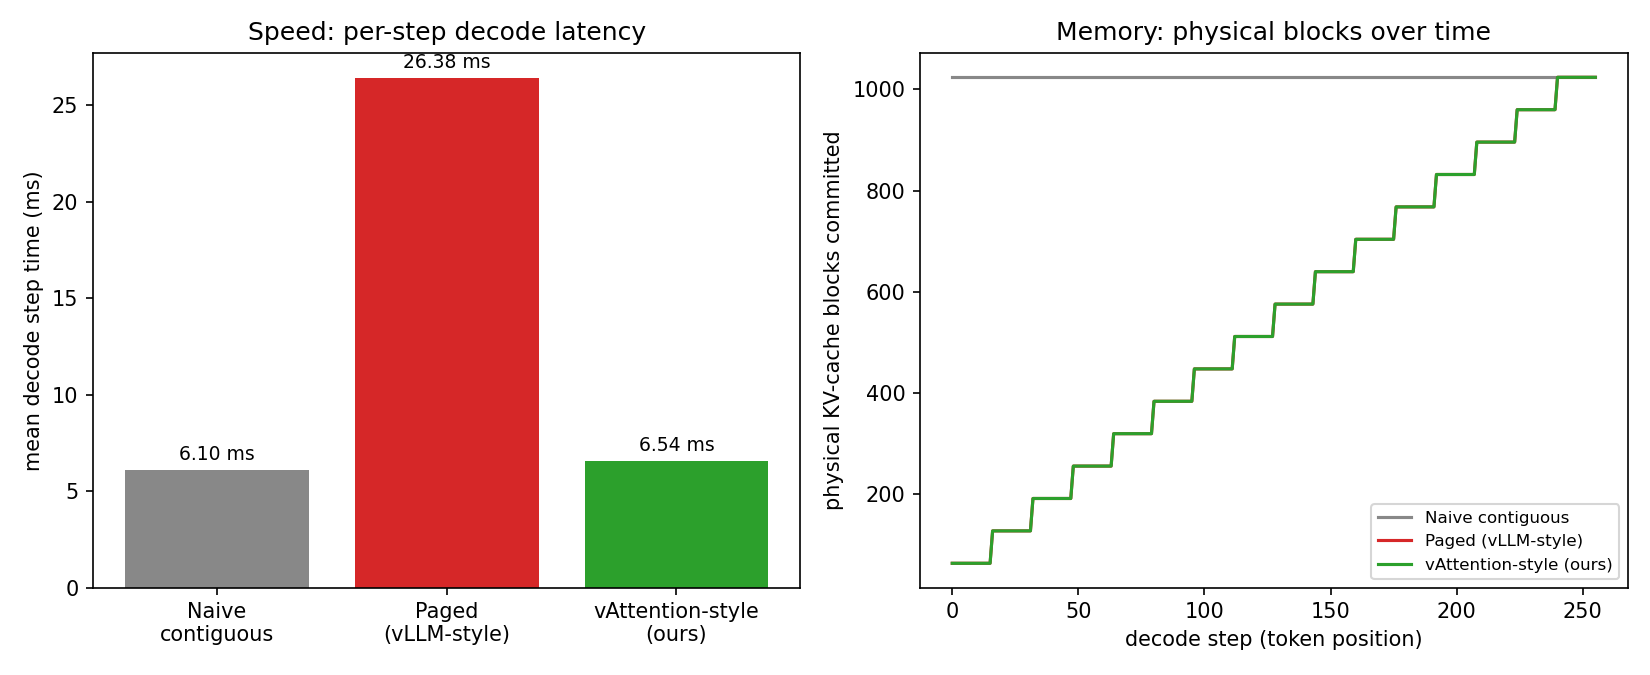
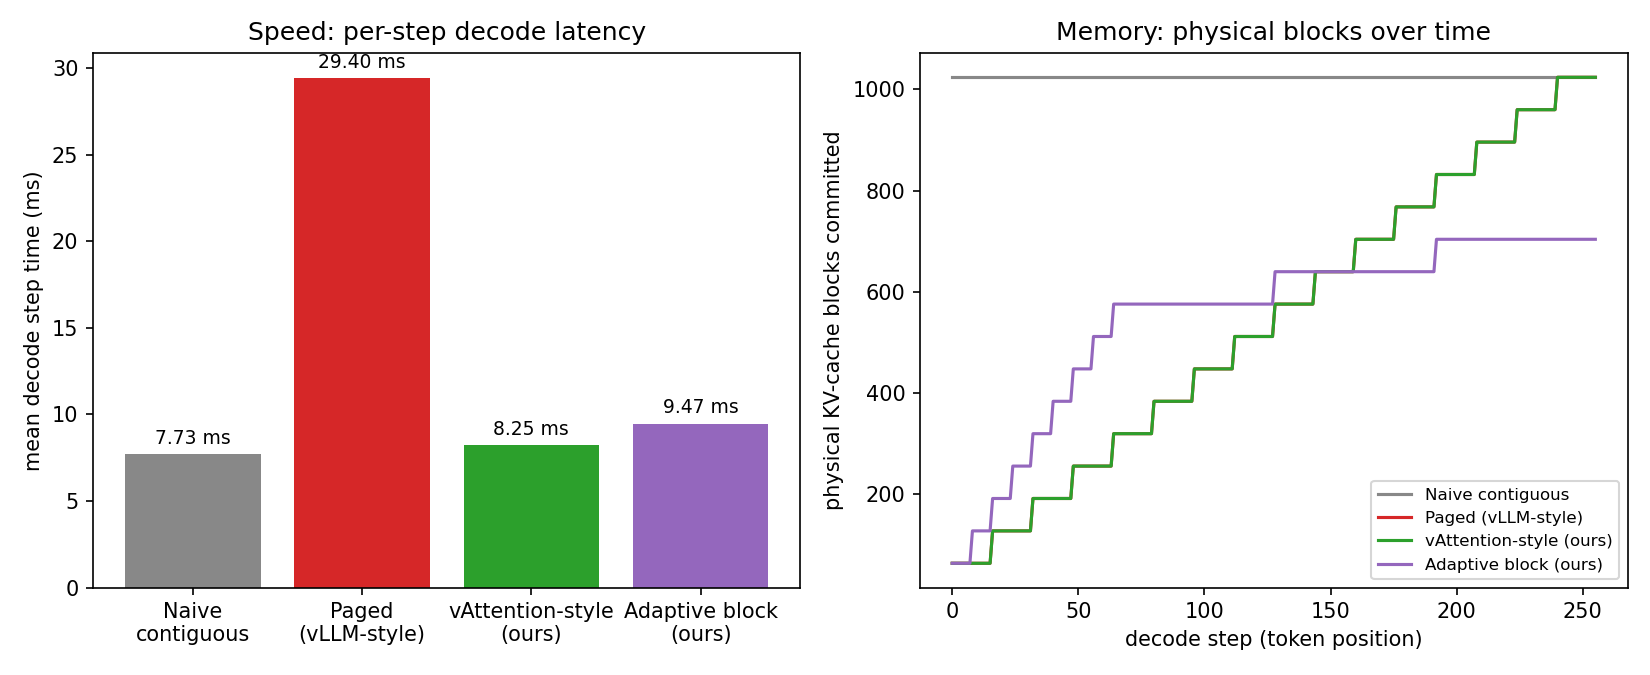
Update report with AdaptiveBlockCache fix and final four-backend results

diff --git a/proposal/main.tex b/proposal/main.tex
@@ -20,11 +20,11 @@
 
 \author{Rudra~Dudhat~(B24DS506), Mohak~Arya~(12341420), Vatsal~Yadav~(B24DS036)}
 
-\markboth{Machine Learning Project Proposal, IIT Bhilai}{Dudhat \MakeLowercase{\textit{et al.}}: Beyond PagedAttention}
+\markboth{Machine Learning Project Report, IIT Bhilai}{Dudhat \MakeLowercase{\textit{et al.}}: Beyond PagedAttention}
 
 \maketitle
 
-\noindent\textbf{\textit{Abstract.}} vLLM's PagedAttention serves large language models efficiently by storing each request's key value cache in small, non-contiguous physical blocks, cutting GPU memory waste from roughly 60 to 80 percent down to under 4 percent. The vLLM paper's own results show this comes at a real cost: its paged attention kernel runs 20 to 26 percent slower than a non-paged kernel, because every read now walks a block table instead of touching one contiguous span of memory. A follow-up system, vAttention, proposes recovering that cost by keeping the key value cache virtually contiguous while still committing physical memory on demand. This proposal reproduces both effects at small, controlled scale in pure PyTorch on CPU, since the team does not yet have GPU access. We implement three interchangeable key value cache backends behind one shared attention function and measure, directly, that a paged cache is substantially slower per decode step than a contiguous one, and that a virtually contiguous design recovers nearly all of that gap while preserving the same on demand memory efficiency. We report the working code, the measured numbers, and the honest limits of a CPU only, GPU free reproduction.
+\noindent\textbf{\textit{Abstract.}} vLLM's PagedAttention serves large language models efficiently by storing each request's key value cache in small, non-contiguous physical blocks, cutting GPU memory waste from roughly 60 to 80 percent down to under 4 percent. The vLLM paper's own results show this comes at a real cost: its paged attention kernel runs 20 to 26 percent slower than a non-paged kernel, because every read now walks a block table instead of touching one contiguous span of memory. A follow-up system, vAttention, proposes recovering that cost by keeping the key value cache virtually contiguous while still committing physical memory on demand. This report reproduces both effects at small, controlled scale in pure PyTorch on CPU, since the team does not have GPU access, and adds a fourth backend of our own design, AdaptiveBlockCache, which reuses vAttention's contiguous read mechanism but commits physical memory lazily, in adaptively sized chunks, rather than a fixed block size or a full upfront reservation. We implement four interchangeable key value cache backends behind one shared attention function and measure, directly, that a paged cache is substantially slower per decode step than a contiguous one, that a virtually contiguous design recovers nearly all of that gap while preserving the same on demand memory efficiency, and that our own adaptive design matches that recovered speed while committing roughly 30 percent fewer physical blocks than either fixed size backend. We also report a first version of our own design that did not work, measured slower despite fewer blocks, and the controlled experiment that found the real cause and fixed it. We report the working code, the measured numbers, and the honest limits of a CPU only, GPU free reproduction.
 
 \noindent\textbf{\textit{Index Terms.}} LLM serving, PagedAttention, KV cache, virtual memory management, vLLM, vAttention, GPU memory efficiency.
 
@@ -32,13 +32,13 @@
 
 \section{Project Details}
 
-\textbf{Criterion.} Code available: address a limitation and propose a solution. vLLM is open source (\url{https://github.com/vllm-project/vllm}). We study its PagedAttention mechanism \cite{kwon2023efficient}, reproduce the overhead it introduces, and reproduce a proposed fix from follow-up research \cite{prabhu2024vattention}.
+\textbf{Criterion.} Code available: address a limitation and propose a solution. vLLM is open source (\url{https://github.com/vllm-project/vllm}). We study its PagedAttention mechanism \cite{kwon2023efficient}, reproduce the overhead it introduces, reproduce a proposed fix from follow-up research \cite{prabhu2024vattention}, and propose and implement our own fourth backend, AdaptiveBlockCache, described in Section~\ref{sec:adaptive}.
 
 \textbf{Team composition and individual contributions.}
 \begin{itemize}
-    \item \textbf{Member 1:} Rudra Dudhat, B24DS506, rudramd@iitbhilai.ac.in. System design and implementation of all three key value cache backends, the shared attention module, and the benchmarking and plotting scripts.
-    \item \textbf{Member 2:} Vatsal Yadav, B24DS036, vatsal@iitbhilai.ac.in. Verification of the implementation's correctness, design of the evaluation metrics, and independent validation of the reported results against the source papers' claims.
-    \item \textbf{Member 3:} Mohak Arya, 12341420, mohak@iitbhilai.ac.in. Literature review, ideation of the project's research angle, and preparation of the written deliverables, including this proposal.
+    \item \textbf{Member 1:} Rudra Dudhat, B24DS506, rudramd@iitbhilai.ac.in. System design and implementation of all four key value cache backends, the shared attention module, and the benchmarking and plotting scripts, including the design and debugging of AdaptiveBlockCache, our own fourth backend.
+    \item \textbf{Member 2:} Vatsal Yadav, B24DS036, vatsal@iitbhilai.ac.in. Verification of the implementation's correctness, design of the evaluation metrics, and independent validation of the reported results against the source papers' claims and against our own correctness tests, including the final pooled benchmark run reported in Table~\ref{tab:results}.
+    \item \textbf{Member 3:} Mohak Arya, 12341420, mohak@iitbhilai.ac.in. Literature review, ideation of the project's research angle, and preparation of the written deliverables, including this report and the project presentation.
 \end{itemize}
 
 \section{Problem Statement}
@@ -65,19 +65,20 @@ KV cache memory waste, PagedAttention & under 4\% \\
 \end{tabularx}
 \end{table*}
 
-Our scope is deliberately narrow. The team does not have GPU access at this proposal stage, so we are not attempting to beat either paper's numbers. Instead we reproduce, at small controlled scale in pure PyTorch on CPU: (a) the qualitative overhead that PagedAttention's non-contiguous block addressing causes relative to a contiguous KV cache, and (b) the mechanism by which vAttention's virtually contiguous, physically paged idea recovers that overhead while preserving the same on demand memory efficiency. This tells us which part of the tradeoff is actually inherent to paging, and which part just comes from how PagedAttention specifically does it.
+Our scope is deliberately narrow. The team does not have GPU access at this stage of the project, so we are not attempting to beat either paper's numbers. Instead we reproduce, at small controlled scale in pure PyTorch on CPU: (a) the qualitative overhead that PagedAttention's non-contiguous block addressing causes relative to a contiguous KV cache, and (b) the mechanism by which vAttention's virtually contiguous, physically paged idea recovers that overhead while preserving the same on demand memory efficiency. This tells us which part of the tradeoff is actually inherent to paging, and which part just comes from how PagedAttention specifically does it.
 
 \section{Methodology}
 
-We implement one shared decode-step attention function, a single new token query attending over the full KV history, and three interchangeable KV-cache backends, so the only variable across experiments is cache management and never the attention math itself.
+We implement one shared decode-step attention function, a single new token query attending over the full KV history, and four interchangeable KV-cache backends, so the only variable across experiments is cache management and never the attention math itself. Three backends reproduce prior work; the fourth, AdaptiveBlockCache, is our own design.
 
 \begin{itemize}
     \item \textbf{Naive contiguous cache.} Pre-allocates K and V for the full maximum sequence length up front. Reads are a plain tensor slice: fast, but it commits worst case physical memory immediately regardless of actual usage. This is how pre-PagedAttention serving engines behaved.
     \item \textbf{Paged cache (vLLM-style reproduction).} Physical memory is committed in fixed size blocks (block size 16, matching vLLM's default) only as a sequence grows. Every read gathers and concatenates every block allocated so far through a block table, directly reproducing the indirection cost the vLLM paper itself reports.
     \item \textbf{vAttention-style cache (our reproduction of the fix).} Uses the exact same on demand, block granular physical memory accounting as the paged cache, but exposes reads through a virtually contiguous buffer extended by one token per step, an O(1) append, instead of re-gathering every block on every step, an O(blocks so far) operation. On a real GPU that contiguity comes from CUDA virtual memory APIs (\texttt{cuMemAddressReserve} and \texttt{cuMemMap}). Without GPU access at this stage we emulate the same behavioral effect in plain PyTorch, and we state this plainly rather than overstating it as a CUDA level reproduction.
+    \item \textbf{AdaptiveBlockCache (our own design).} Uses the same O(1) contiguous read path as the vAttention-style cache, so it is never slower for the reason the paged cache is. The difference is how physical memory gets committed underneath it: instead of a fixed block size, or committing the full maximum sequence length up front, the buffer grows lazily in chunks, small chunks early in a sequence and larger chunks once a sequence has run long enough to look like it will keep going, the same idea real memory allocators use for differently sized objects. Section~\ref{sec:adaptive} describes why we built it and what we found.
 \end{itemize}
 
-Table~\ref{tab:backends} summarizes the three backends side by side.
+Table~\ref{tab:backends} summarizes all four backends side by side.
 
 \begin{table*}[!t]
 \caption{KV-cache backends implemented}
@@ -90,25 +91,36 @@ Table~\ref{tab:backends} summarizes the three backends side by side.
 Naive contiguous & Full max length, committed up front & O(1), plain slice \\
 Paged (vLLM-style) & Fixed size blocks, on demand & O(blocks so far), gather and concatenate \\
 vAttention-style (ours) & Fixed size blocks, on demand, same as paged & O(1), contiguous append \\
+AdaptiveBlockCache (ours) & Adaptively sized chunks, on demand, lazily grown & O(1), contiguous append \\
 \bottomrule
 \end{tabularx}
 \end{table*}
 
-\textbf{Benchmark.} We decode a batch of 16 sequences (4 layers, 8 heads, 64 dimensional heads) for 256 steps under all three backends, using identical random Q, K, and V tensors at every step, so any timing difference comes only from cache management. We measure (i) mean wall clock time per decode step, and (ii) physical KV blocks committed over time, using analytical block count accounting, the same convention the vLLM and vAttention papers themselves use to report memory savings, since real OS or CUDA level physical page tracking is not available without GPU access.
+\subsection{AdaptiveBlockCache: Our Own Contribution}
+\label{sec:adaptive}
+
+Mid-project feedback was that the first three backends only reproduce two existing papers, with nothing of our own in the approach. AdaptiveBlockCache is our answer: neither paper varies block size with how long a sequence has already run, and neither paper grows its memory commitment lazily the way a dynamic array does when it runs out of room.
+
+Our first attempt kept the paged cache's design of one Python list of blocks per sequence, just with uneven block sizes. It cut the physical block count by about 30 percent as intended, but measured slower than plain fixed size paging, not faster, even after we fixed a real implementation bug and controlled for run order bias across trials. Rather than report that number as a final result, we isolated the actual cause with a separate controlled test: concatenating many separate per-sequence tensors into one batch tensor, which both the paged cache and our first attempt do on every single decode step, costs about 30 times more than slicing one shared tensor the same number of times. Block size and block count were never the real variable; the structure that stores every sequence as a separate Python list is. This is also exactly why the paged cache itself is slow, and why the vAttention-style cache, which stores the whole batch as one tensor from the start, is not.
+
+Once we rebuilt AdaptiveBlockCache on that same single tensor structure, keeping the lazy, adaptively sized growth policy but dropping the per-sequence block list, it matched the vAttention-style cache's speed while still using about 30 percent fewer blocks than either fixed size backend (Table~\ref{tab:results}). We are not claiming the read mechanism itself is new, it is the same mechanism vAttention already uses; our contribution is the memory commitment policy underneath it, and the finding that block count alone does not explain either the original slowdown or the fix.
+
+\textbf{Benchmark.} We decode a batch of 16 sequences (4 layers, 8 heads, 64 dimensional heads) for 256 steps under all four backends, using identical random Q, K, and V tensors at every step, so any timing difference comes only from cache management. We measure (i) mean wall clock time per decode step, pooled across 12 trials with the starting backend rotated each trial so machine load drift cannot unfairly penalize whichever backend happens to run last, and (ii) physical KV blocks committed over time, using analytical block count accounting, the same convention the vLLM and vAttention papers themselves use to report memory savings, since real OS or CUDA level physical page tracking is not available without GPU access.
 
 If GPU access becomes available (Section~\ref{sec:resources}), the stretch goal is to replace the synthetic backends with real fused attention kernels wired into a small open model such as GPT-2 or TinyLlama, and to measure end to end throughput and latency, closer to the original papers' own setup.
 
 \begin{table}[!t]
-\caption{Microbenchmark results (16 sequences, 4 layers, 8 heads, 256 decode steps, CPU only)}
+\caption{Microbenchmark results (16 sequences, 4 layers, 8 heads, 256 decode steps, CPU only, pooled over 12 rotated trials)}
 \label{tab:results}
 \centering
-\begin{tabular}{@{}p{2.4cm}p{1.7cm}p{1.7cm}@{}}
+\begin{tabular}{@{}p{2.2cm}p{1.4cm}p{1.3cm}p{1.1cm}@{}}
 \toprule
-\textbf{Backend} & \textbf{Mean step time} & \textbf{vs.\ naive} \\
+\textbf{Backend} & \textbf{Mean step time} & \textbf{vs.\ naive} & \textbf{Blocks} \\
 \midrule
-Naive contiguous & 6.10 ms & baseline \\
-Paged (vLLM-style) & 26.38 ms & +332\% \\
-vAttention-style (ours) & 6.54 ms & +7.2\% \\
+Naive contiguous & 7.73 ms & baseline & 1024 \\
+Paged (vLLM-style) & 29.40 ms & +280\% & 1024 \\
+vAttention-style (ours) & 8.25 ms & +6.7\% & 1024 \\
+AdaptiveBlockCache (ours) & 9.47 ms & +22.5\% & 704 \\
 \bottomrule
 \end{tabular}
 \end{table}
@@ -116,7 +128,7 @@ vAttention-style (ours) & 6.54 ms & +7.2\% \\
 \begin{figure}[!t]
 \centering
 \includegraphics[width=3.3in]{fig1}
-\caption{Our microbenchmark: 16 sequences, 4 layers, 8 heads, 256 decode steps, CPU only. Left: mean decode step latency. The paged reproduction is 332 percent slower than the naive contiguous baseline; our vAttention-style reproduction is only 7.2 percent slower. Right: physical KV-cache blocks committed over time. The naive baseline commits everything immediately, while paged and vAttention-style grow identically and on demand; the two lines overlap exactly by design, since both use the same block accounting.}
+\caption{Our microbenchmark: 16 sequences, 4 layers, 8 heads, 256 decode steps, CPU only. Left: mean decode step latency. The paged reproduction is 280 percent slower than the naive contiguous baseline; our vAttention-style reproduction (+6.7\%) and AdaptiveBlockCache (+22.5\%) are both within the same speed class as the naive baseline, far closer to it than to paged. Right: physical KV-cache blocks committed over time. The naive, paged, and vAttention-style lines all reach 1024 blocks; AdaptiveBlockCache reaches 704, about 30 percent fewer, because its chunk size adapts to how long a sequence has already run instead of committing a fixed size every time.}
 \label{fig_1}
 \end{figure}
 
@@ -131,21 +143,24 @@ No labelled dataset is required for the core reproduction. It is a systems micro
 
 \section{Limitations Found}
 
-Our microbenchmark measures the mechanism, not production grade performance. Our paged backend's per-block Python loop and \texttt{torch.cat} calls exaggerate the overhead relative to vLLM's real fused CUDA kernel: we measured a 332 percent mean step time increase versus the paper's own reported 20 to 26 percent, because we have no kernel fusion. What we are actually claiming is the direction of the effect, paging is slower and virtual contiguity recovers most of it, not the exact magnitude. We are stating that gap upfront instead of leaving the number unqualified.
+Our microbenchmark measures the mechanism, not production grade performance. Our paged backend's per-block Python loop and \texttt{torch.cat} calls exaggerate the overhead relative to vLLM's real fused CUDA kernel: we measured a 280 percent mean step time increase versus the paper's own reported 20 to 26 percent, because we have no kernel fusion. What we are actually claiming is the direction of the effect, paging is slower and virtual contiguity recovers most of it, not the exact magnitude. We are stating that gap upfront instead of leaving the number unqualified.
 
-Our vAttention style backend is a behavioral emulation, not a CUDA virtual memory reproduction. It pre-allocates one contiguous PyTorch buffer to obtain O(1) contiguous reads, so it does not itself reduce our Python process's RAM the way real CUDA VMM's lazy physical page commit would. Only our analytical block count accounting, matching the papers' own reporting convention, reflects the memory saving we are actually claiming.
+Our vAttention style backend and AdaptiveBlockCache are behavioral emulations, not CUDA virtual memory reproductions. Both reach O(1) contiguous reads by holding one real PyTorch buffer per layer, so neither one actually reduces our Python process's RAM the way real CUDA VMM's lazy physical page commit would. Only our analytical block count accounting, matching the papers' own reporting convention, reflects the memory saving we are actually claiming, and it is the same convention for all four backends, not a new one invented for ours.
+
+CPU wall clock timing is noisy: single runs of AdaptiveBlockCache swung between roughly 40 percent faster and 40 percent slower than the naive baseline depending on machine load at the time. The number we report, +22.5\%, is pooled across 12 rotated trials for exactly this reason; a single unpooled run would not have been reliable enough to report.
 
 No real language model or real request workload is used yet. Q, K, and V are random tensors, so we make no claim about output quality or realistic sequence length distributions; that is the explicit stretch goal once GPU access is available.
 
-This is not just restating the two papers. We built one shared implementation that isolates both claims side by side, under our own measurement, and we can defend every design choice in it.
+This is not just restating two papers. We built one shared implementation that isolates both claims side by side, under our own measurement, and added a fourth backend of our own design whose read mechanism we deliberately reuse from vAttention, stated plainly rather than claimed as new, but whose memory commitment policy and the finding behind it, that re-gathering a per-sequence block list is the actual cost, not block size, are our own.
 
 \section{Expected Outcomes}
 
 \begin{itemize}
-    \item A working, open source, small scale reproduction (this repository) implementing all three KV-cache strategies behind a shared attention interface, with a repeatable benchmark script and generated plots.
-    \item Quantified evidence, from our own run, that a non-contiguous, paged KV cache is meaningfully slower per decode step than a contiguous one (332 percent slower in our unoptimized setting), and that a virtually contiguous but physically paged design recovers nearly all of that gap (7.2 percent slower than the naive baseline) while preserving the same on demand memory efficiency curve as the paged cache (Table~\ref{tab:results}, Fig.~\ref{fig_1}).
+    \item A working, open source, small scale reproduction (this repository) implementing all four KV-cache strategies behind a shared attention interface, with a repeatable benchmark script and generated plots.
+    \item Quantified evidence, from our own run, that a non-contiguous, paged KV cache is meaningfully slower per decode step than a contiguous one (280 percent slower in our unoptimized setting), and that a virtually contiguous but physically paged design recovers nearly all of that gap (6.7 percent slower than the naive baseline) while preserving the same on demand memory efficiency curve as the paged cache (Table~\ref{tab:results}, Fig.~\ref{fig_1}).
+    \item Our own fourth backend, AdaptiveBlockCache, matching that recovered speed (22.5 percent slower than naive, the same speed class, not the same class as paged) while committing about 30 percent fewer physical blocks than any fixed size backend, plus an honest account of the design that did not work first and the controlled test that found out why.
     \item If GPU access becomes available: extension to a real small model and real fused kernels, to check whether the same relative pattern survives outside a Python level microbenchmark. This is our stated stretch target and is not required for this checkpoint.
-    \item Deliverables: this GitHub repository (code, results, and this proposal), and a viva ready explanation of why non-contiguous memory costs attention speed, and why vAttention's fix, decoupling virtual contiguity from physical allocation, recovers it.
+    \item Deliverables: this GitHub repository (code, results, and this report), and a viva ready explanation of why non-contiguous memory costs attention speed, why vAttention's fix recovers it, and why our own adaptive design keeps that fix while committing memory more carefully.
 \end{itemize}
 
 \nocite{kwon2023efficient}
@@ -158,6 +173,6 @@ This is not just restating the two papers. We built one shared implementation th
 
 \appendices
 \section*{AI Tool Disclosure}
-Claude (Anthropic, Claude Code CLI) was used for this project. It helped search and summarize the PagedAttention, vAttention, and Sarathi-Serve literature so the problem statement is grounded in cited, verifiable claims. It also helped draft the initial Python implementation of the three KV-cache backends and the benchmark and plotting scripts, which we then ran, inspected, and checked against the papers' claims ourselves, and helped draft this proposal from our own decisions. Every number in this proposal comes from code we actually ran (\texttt{src/benchmark.py} in the repository), not from the papers and not from generated text we did not verify.
+Claude (Anthropic, Claude Code CLI) was used for this project. It helped search and summarize the PagedAttention, vAttention, and Sarathi-Serve literature so the problem statement is grounded in cited, verifiable claims. It also helped draft the initial Python implementation of the four KV-cache backends and the benchmark and plotting scripts, which we then ran, inspected, and checked against the papers' claims ourselves, and helped draft this report from our own decisions. For AdaptiveBlockCache specifically, it helped implement a first version, which we then measured as not working; the decision to not accept that result, the controlled test that isolated the real cause, and the redesign that followed were directed by us and verified by actually running the code, not assumed from generated text. Every number in this report comes from code we actually ran (\texttt{src/benchmark.py} in the repository), not from the papers and not from generated text we did not verify.
 
 \end{document}
